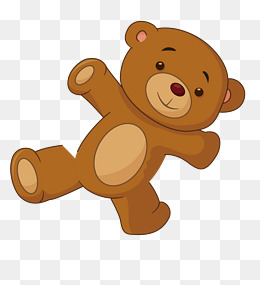
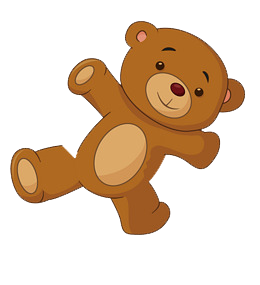
fun facts done

diff --git a/Responsive Site/style.css b/Responsive Site/style.css
@@ -7,7 +7,6 @@
                           "footer";
   grid-template-rows:   1fr 1fr 1fr;
   grid-template-columns:  960px;
-
 }
 
 body{
@@ -105,35 +104,40 @@ img{
 }
 
 #tumbler{
-  max-height: 300px;
-  max-width: 300px;
+  height: 85%;
+  width: 85%;
+  display: block;
+    margin-left: auto;
+    margin-right: auto;
   justify-content: center;
-  margin-left: 25px;
-  margin-right:50px;
+
 }
 
 #insta{
-  height: 300px;
-  width: 300px;
+  height: 85%;
+  width: 85%;
+  display: block;
+    margin-left: auto;
+    margin-right: auto;
   justify-content: center;
-  margin-left: 30px;
-  margin-right:50px;
 }
 
 #twitter{
-  height: 280px;
-  width: 280px;
+  height: 85%;
+  width: 85%;
+  display: block;
+    margin-left: auto;
+    margin-right: auto;
   justify-content: center;
-  margin-left: 30px;
-  margin-right:50px;
 }
 
 #fb{
-  height: 300px;
-  width: 300px;
+  height: 85%;
+  width: 85%;
+  display: block;
+    margin-left: auto;
+    margin-right: auto;
   justify-content: center;
-  margin-left: 30px;
-  margin-right:50px;
 }
 
 footer{
@@ -160,3 +164,61 @@ margin: 0;
 height: 350px;
 text-decoration: none;
 }
+
+.facts:hover {
+  background-color: rgb(77, 40, 59)
+}
+
+#teddy{
+  height: 85%;
+  width: 85%;
+  display: block;
+    margin-left: auto;
+    margin-right: auto;
+  justify-content: center;
+}
+
+#torch{
+  height: 75%;
+  width: 85%;
+  display: block;
+    margin-left: auto;
+    margin-right: auto;
+  justify-content: center;
+}
+ #rose{
+   height: 75%;
+   width: 85%;
+   display: block;
+     margin-left: auto;
+     margin-right: auto;
+   justify-content: center;
+
+ }
+ #sdt{
+   height: 85%;
+   width: 85%;
+   display: block;
+     margin-left: auto;
+     margin-right: auto;
+   justify-content: center;
+
+ }
+
+ #rock{
+   height: 85%;
+   width: 85%;
+   display: block;
+     margin-left: auto;
+     margin-right: auto;
+   justify-content: center;
+ }
+
+ #indy{
+   height: 75%;
+   width: 75%;
+   display: block;
+     margin-left: auto;
+     margin-right: auto;
+   justify-content: center;
+ }

diff --git a/Responsive Site/funfacts.html b/Responsive Site/funfacts.html
@@ -16,49 +16,61 @@
         <li><a href="history.html">History</a></li>
         <li><a href="funfacts.html">Fun Facts</a></li>
       </ul>
-    </nav>
+      </nav>
     </header>
 
-      <main>
+<main>
 
-        <img src="images/glasses.png" alt="sdt banner" />
+      <img src="images/glasses.png" alt="sdt banner" />
 
-    <div class="factboxes">
+  <div class="factboxes">
 
       <div class="facts">
         <h1>MASCOT</h1>
         <h2>Teddy Bear</h2>
+        <img id=teddy src="images/teddy.png" alt="teddy bear" />
       </div>
 
       <div class="facts">
         <h1>SYMBOL</h1>
         <h2>Torch</h2>
-        <img src="images/torch.png" alt="torch" />
+        <img id=torch src="images/torch.png" alt="torch" />
       </div>
 
       <div class="facts">
         <h1>FlOWER</h1>
         <h2>Yellow Tea Rose</h2>
+        <img id=rose src="images/rose.png" alt="yellow flower" />
       </div>
 
       <div class="facts">
         <h1>SORORITY COLORS</h1>
         <h2>Café au Lait and Old Blue</h2>
-        <img src="images/sdt.png" alt="sdt" />
+        <img id=sdt src="images/sdt.png" alt="sdt" />
       </div>
 
       <div class="facts">
         <h1>JEWEL</h1>
         <h2>Lapis Lazuli</h2>
-        <img src="images/rock.png" alt="sdt jewl" />
+        <img id=rock src="images/rock.png" alt="sdt jewl" />
       </div>
 
 
       <div class="facts">
         <h1>HEADQUARTERS</h1>
         <h2>Carmel Indiana</h2>
-        <img src="images/indiana.png" alt="carmel indiana" />
+        <img id=indy src="images/indiana.png" alt="carmel indiana" />
       </div>
 
-    </div>
-      </main>
+  </div>
+</main>
+
+      <footer>
+        <address>
+        1231 Dickinson Drive
+        Coral Gables, FL 33146
+        </address>
+      </footer>
+
+    </body>
+    </html>

diff --git a/Responsive Site/index.html b/Responsive Site/index.html
@@ -6,10 +6,9 @@
   <meta name="keywords"content="responsive"/>
   <link href="style.css" rel="stylesheet">
   <link href="https://fonts.googleapis.com/css?family=Limelight" rel="stylesheet">
-  </head>
+</head>
 
 <body>
-
   <header>
     <nav>
     <ul>
@@ -18,10 +17,10 @@
       <li><a href="funfacts.html">Fun Facts</a></li>
       <!-- <li><a href="https://www.instagram.com/umiamisdt/?hl=en"><img src="images/insta.png" alt="insta logo" width="50" height="50"/></a></li> -->
     </ul>
-  </nav>
+    </nav>
   </header>
 
-  <main>
+<main>
 
   <img src="images/sdt1.png" alt="sdt banner" />
 
@@ -56,8 +55,8 @@
   </div>
 
 </div>
-  </main>
-  </div>
+
+</main>
 
   <footer>
     <address>

diff --git a/Responsive Site/history.html b/Responsive Site/history.html
@@ -16,7 +16,7 @@
         <li><a href="history.html">History</a></li>
         <li><a href="funfacts.html">Fun Facts</a></li>
       </ul>
-    </nav>
+      </nav>
     </header>
 
     <main>
